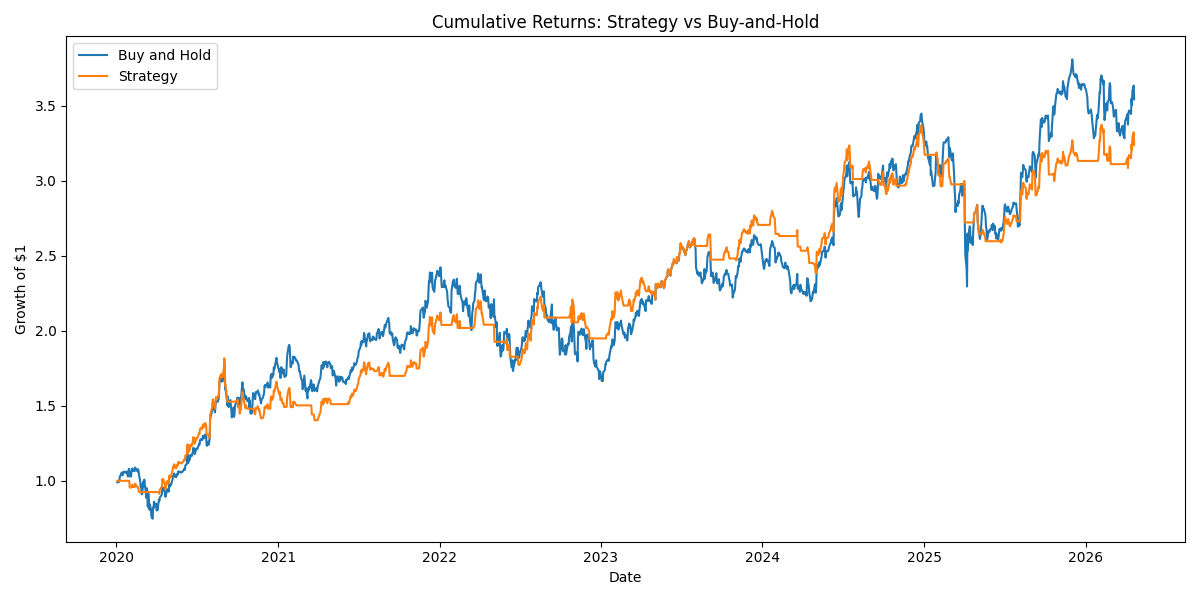
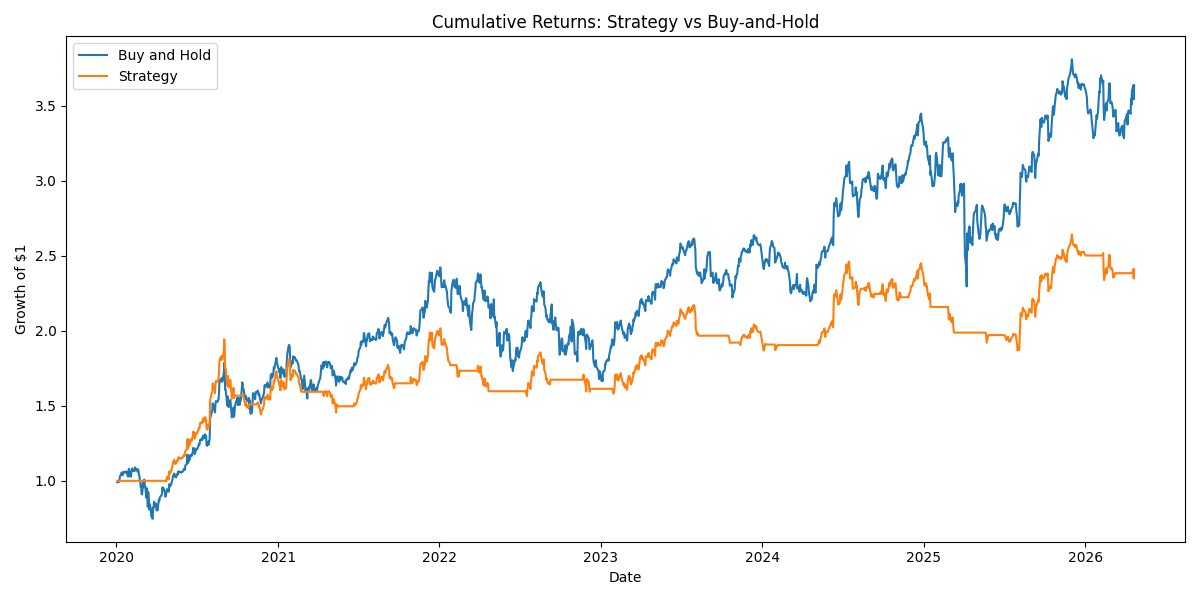
Add modular support for SMA trend and SMA crossover strategies

diff --git a/src/strategy.py b/src/strategy.py
@@ -1,6 +1,12 @@
 import pandas as pd
 
-from config import RAW_DATA_FILE, SIGNALS_FILE, SMA_WINDOW
+from config import (
+    RAW_DATA_FILE,
+    SIGNALS_FILE,
+    SMA_WINDOW,
+    SHORT_SMA_WINDOW,
+    LONG_SMA_WINDOW,
+)
 
 
 def load_price_data() -> pd.DataFrame:
@@ -14,15 +20,66 @@ def load_price_data() -> pd.DataFrame:
     return df
 
 
-def add_moving_average(df: pd.DataFrame, window: int = SMA_WINDOW) -> pd.DataFrame:
+def add_moving_average(df: pd.DataFrame, window: int) -> pd.DataFrame:
     df = df.copy()
     df[f"sma_{window}"] = df["close"].rolling(window=window).mean()
     return df
 
 
-def add_signal(df: pd.DataFrame, ma_column: str = f"sma_{SMA_WINDOW}") -> pd.DataFrame:
+def add_all_indicators(df: pd.DataFrame) -> pd.DataFrame:
     df = df.copy()
-    df["signal"] = ((df["close"] > df[ma_column]) & df[ma_column].notna()).astype(int)
+    for window in [SMA_WINDOW, SHORT_SMA_WINDOW, LONG_SMA_WINDOW]:
+        col_name = f"sma_{window}"
+        if col_name not in df.columns:
+            df[col_name] = df["close"].rolling(window=window).mean()
+    return df
+
+
+def add_sma_trend_signal(df: pd.DataFrame) -> pd.DataFrame:
+    df = df.copy()
+    ma_column = f"sma_{SMA_WINDOW}"
+    df["signal_sma_trend"] = (
+        (df["close"] > df[ma_column]) & df[ma_column].notna()
+    ).astype(int)
+    return df
+
+
+def add_sma_crossover_signal(df: pd.DataFrame) -> pd.DataFrame:
+    df = df.copy()
+    short_col = f"sma_{SHORT_SMA_WINDOW}"
+    long_col = f"sma_{LONG_SMA_WINDOW}"
+
+    df["signal_sma_crossover"] = (
+        (df[short_col] > df[long_col])
+        & df[short_col].notna()
+        & df[long_col].notna()
+    ).astype(int)
+    return df
+
+
+def build_signals(df: pd.DataFrame) -> pd.DataFrame:
+    df = add_all_indicators(df)
+    df = add_sma_trend_signal(df)
+    df = add_sma_crossover_signal(df)
+    return df
+
+
+def select_signal(df: pd.DataFrame, strategy_name: str) -> pd.DataFrame:
+    df = df.copy()
+
+    signal_map = {
+        "sma_trend": "signal_sma_trend",
+        "sma_crossover": "signal_sma_crossover",
+    }
+
+    if strategy_name not in signal_map:
+        raise ValueError(
+            f"Unknown strategy '{strategy_name}'. Valid options: {list(signal_map.keys())}"
+        )
+
+    selected_signal = signal_map[strategy_name]
+    df["signal"] = df[selected_signal]
+
     return df
 
 

diff --git a/src/run_pipeline.py b/src/run_pipeline.py
@@ -1,5 +1,5 @@
 from data_loader import download_stock_data, save_raw_data
-from strategy import add_moving_average, add_signal, load_price_data, save_signals
+from strategy import build_signals, load_price_data, save_signals, select_signal
 from backtester import (
     compute_cumulative_returns,
     compute_positions,
@@ -10,7 +10,7 @@ from backtester import (
 )
 from metrics import calculate_metrics, load_backtest_data, print_metrics_table
 from visualize import load_data, plot_cumulative_returns, plot_drawdown, plot_price_and_sma
-from config import BACKTEST_FILE, RISK_FREE_RATE, SMA_WINDOW, START_DATE, TICKER
+from config import BACKTEST_FILE, SMA_WINDOW, START_DATE, STRATEGY_NAME, TICKER
 
 
 def main() -> None:
@@ -20,9 +20,11 @@ def main() -> None:
 
     print("Step 2: Generating strategy signals...")
     signal_df = load_price_data()
-    signal_df = add_moving_average(signal_df, window=SMA_WINDOW)
-    signal_df = add_signal(signal_df, ma_column=f"sma_{SMA_WINDOW}")
+    signal_df = build_signals(signal_df)
+    signal_df = select_signal(signal_df, strategy_name=STRATEGY_NAME)
     save_signals(signal_df)
+
+    print(f"Selected strategy: {STRATEGY_NAME}")
 
     print("Step 3: Running backtest...")
     backtest_df = load_signal_data()
@@ -44,7 +46,7 @@ def main() -> None:
     strategy_metrics = calculate_metrics(
         daily_returns=results_df["strategy_returns"],
         cumulative_returns=results_df["cum_strategy"],
-        label="SMA Strategy",
+        label=STRATEGY_NAME,
     )
 
     print_metrics_table([market_metrics, strategy_metrics])

diff --git a/src/config.py b/src/config.py
@@ -17,4 +17,9 @@ BACKTEST_FILE = DATA_DIR / f"{TICKER.lower()}_backtest.csv"
 
 TRADING_DAYS_PER_YEAR = 252
 RISK_FREE_RATE = 0.0
+
 SMA_WINDOW = 20
+SHORT_SMA_WINDOW = 10
+LONG_SMA_WINDOW = 50
+
+STRATEGY_NAME = "sma_crossover"  # options: "sma_trend", "sma_crossover"
